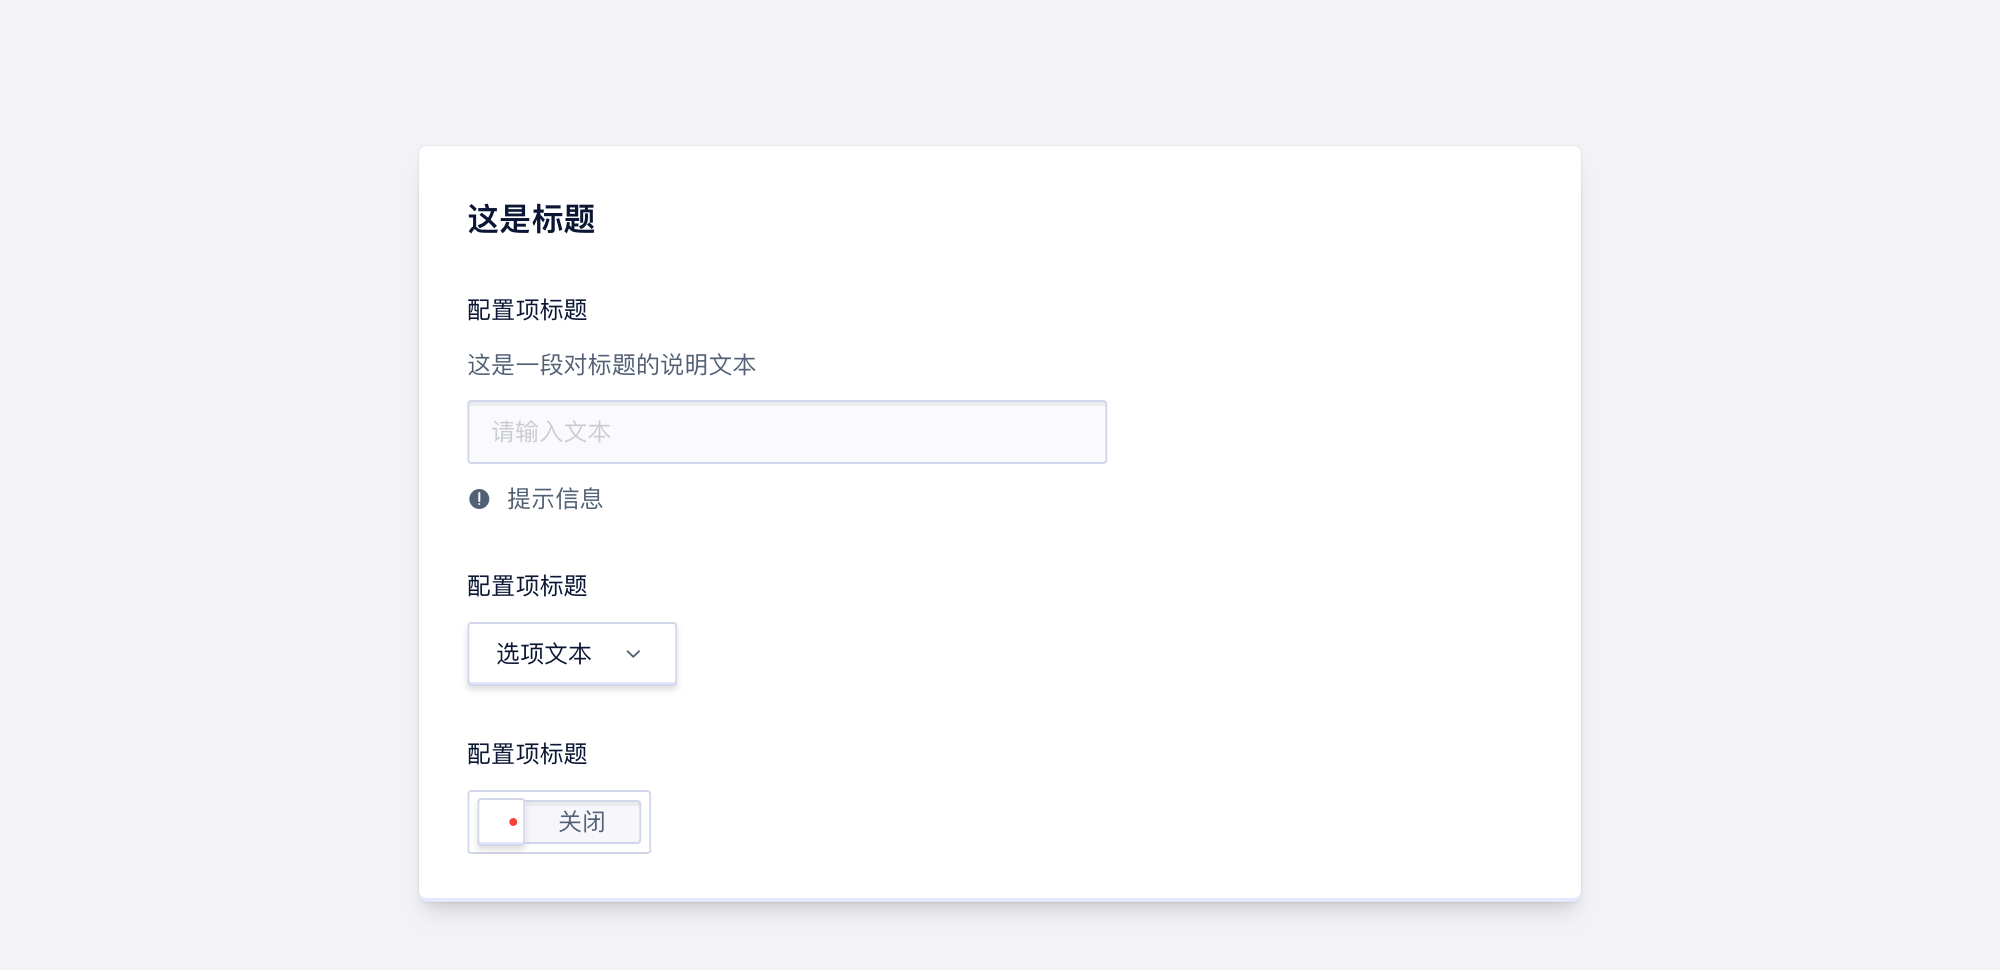
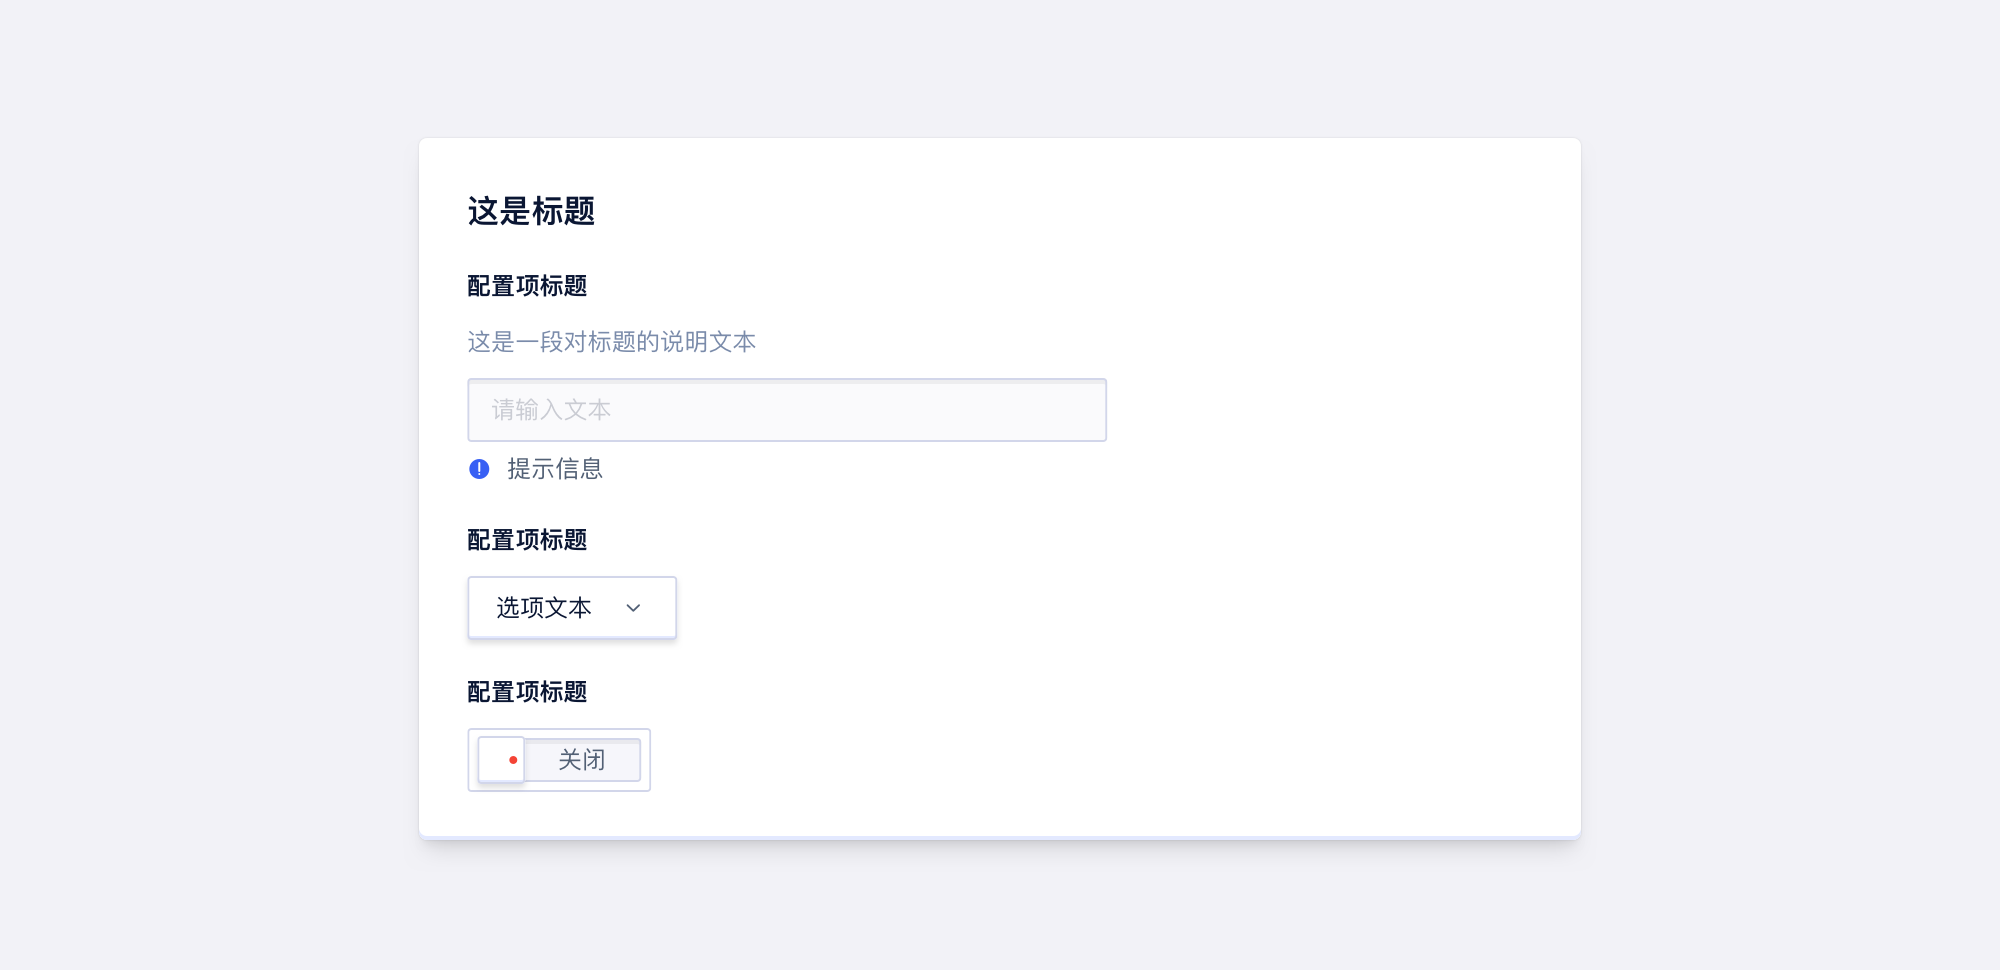
form修改

Changed region(s): [[0.217, 0.2784, 0.806, 0.8969], [0.217, 0.9278, 0.775, 0.9588], [0.217, 0.1856, 0.31, 0.2474]]

diff --git a/content/component/list/Form/index.md b/content/component/list/Form/index.md
@@ -22,7 +22,7 @@ description: "信息添加、录入的通用形式"
 
 | 标题（A） | 配置项标题（B） | 输入域（C） |提示信息（D） |说明信息（E） |必选项标识（F） |
 | :-------: | :-------: | :-------: | :-------: | :-------: | :-------: |
-|     √     |     √     |     √     | √     | 可选  | 可选   |
+|     √     |     √     |     √     | 可选   | 可选  | 可选   |
 
 **A.标题**
 
@@ -32,21 +32,21 @@ description: "信息添加、录入的通用形式"
 
 - 主要是解释输入项的含义，一般不宜太长，需要简明扼要，快速让用户理解
 
-**B.输入域**
+**C.输入域**
 
 - 可交互输入的区域，是构成表单的核心内容，用来收集用户操作的信息；
 
 - 作为容器主要放置：单选 `Radio`、 数字输入框 `NumberInput`、 输入框 `Input`等组件
 
-**C.提示信息**
+**D.提示信息（可选）**
 
 - 包含帮助信息、占位符和反馈信息提示
 
-**D.说明信息（可选）**
+**E.说明信息（可选）**
 
 <!--交互补充交互补充交互补充交互补充交互补充交互补充交互补充-->
 
-**E.必选标识（可选）**
+**F.必选标识（可选）**
 
 - 告知用户当前项为必填项，不可为空值
 
@@ -98,6 +98,8 @@ description: "信息添加、录入的通用形式"
 
 ## 基本状态
 
+提示信息搭配有预设颜色的icon时，——————<!--提示信息的基本状态，交互来来来说明一下-->
+
 ![](../../../images/form/states_01.png)
 
 
@@ -132,10 +134,13 @@ description: "信息添加、录入的通用形式"
 
 ### 高级选项默认收起，点击展开
 
-对于表单内容很多，且存在一些没那么重要的非必填项时，可以选择默认隐藏；用户有欲望填写时点击展开，才会暴露给用户进行输入填写。
-
+对于表单内容很多，且存在一些没那么重要的非必填项时，可以选择默认隐藏；
 
 ![](../../../images/form/descriptions_04.png)
+
+用户有欲望填写时点击展开，才会暴露给用户进行输入填写。
+
+![](../../../images/form/descriptions_04_1.png)
 
 
 
